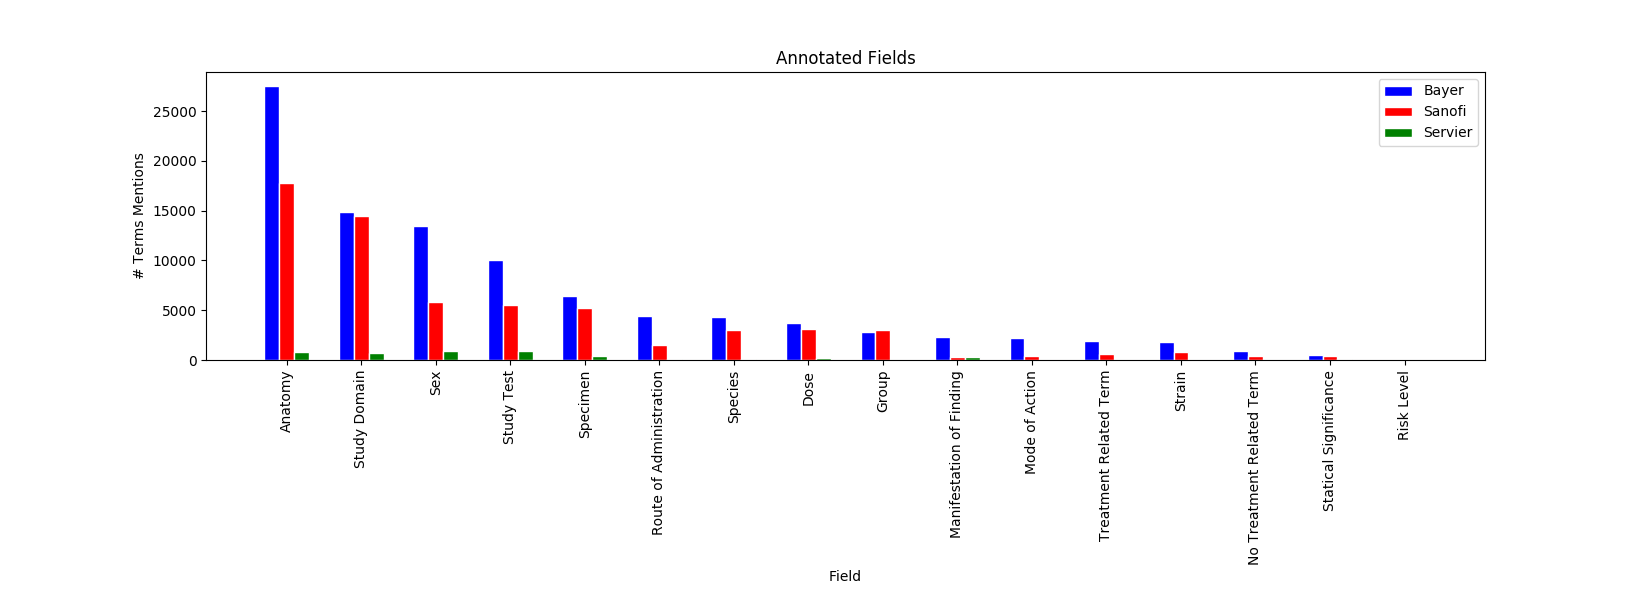
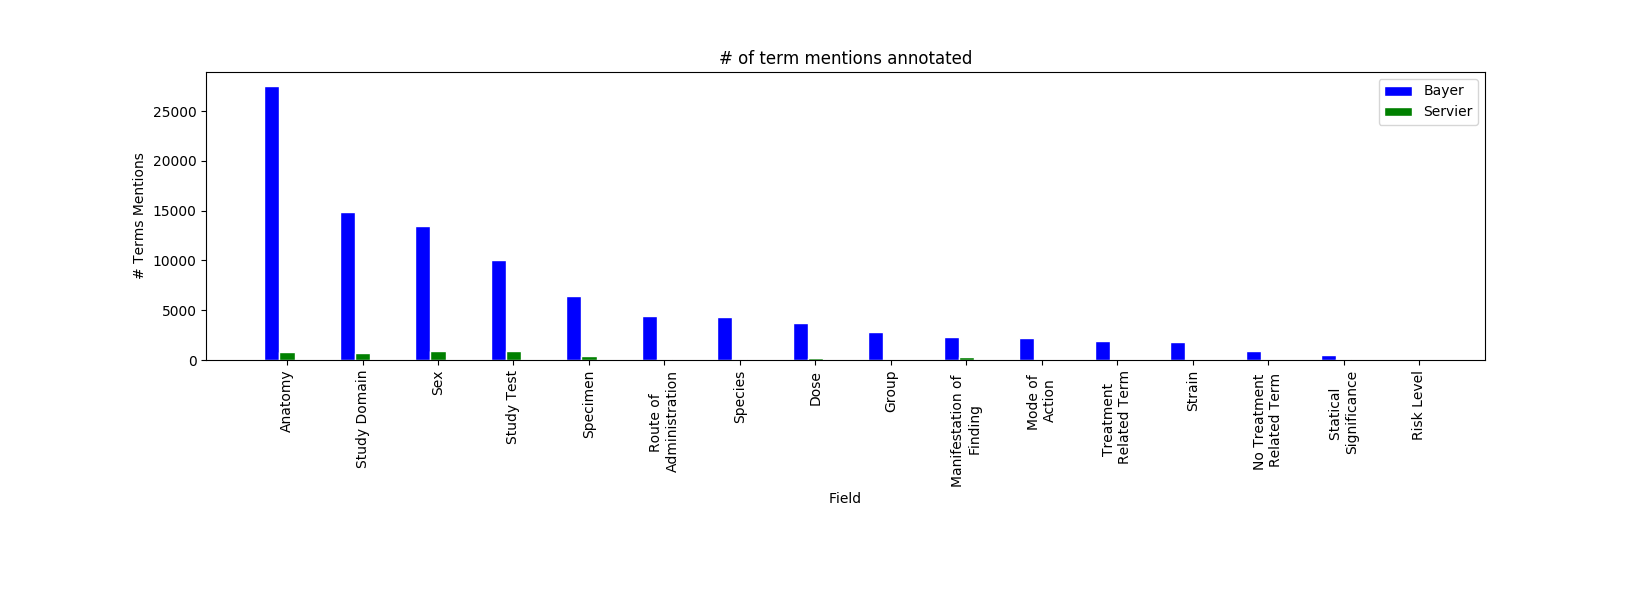
development comparison

diff --git a/plot_multiefpia_comparison.py b/plot_multiefpia_comparison.py
@@ -24,16 +24,23 @@ if __name__ == '__main__':
     import plot_multiefpia_comparison
     parameters = plot_multiefpia_comparison.ReadParameters(args)
     
+    
+    parameters['total_annotation_measurement'] = "bayer/total_annotation_measurement.dat,servier/total_annotation_measurement.dat"
+    efpias=['Bayer','Servier']
+    #['Bayer','Sanofi','Servier']
+    #['b','r','g']
+    colors = ['b','g']
+    
     total_annotation_measurement = parameters['total_annotation_measurement'].split(",")
     documents_annotation_measurement = parameters['documents_annotation_measurement'].split(",")
     if(len(total_annotation_measurement)!=len(documents_annotation_measurement)):
         logging.error("The numbers of total field and document files have to be the same.")
        
     #for path1,path2 in zip(total_annotation_measurement,documents_annotation_measurement):
-    #plot_multiefpia_comparation.plot_annotations_set_measurement(total_annotation_measurement, parameters['outputDir']+ 'all_set_annotations_percentage.png',['Bayer','Sanofi','Servier'],['b','r','g'],True)
-    plot_multiefpia_comparison.plot_annotations_set_measurement(total_annotation_measurement,parameters['outputDir']+ 'all_set_annotations_quantity.png',['Bayer','Sanofi','Servier'],['b','r','g'],False)
-    #plot_multiefpia_comparation.plot_annotations_study_domain(total_annotation_measurement,parameters['outputDir']+ 'study_domain_percentage.png',['Bayer','Sanofi','Servier'],['b','r','g'],True)
-    plot_multiefpia_comparison.plot_annotations_study_domain(total_annotation_measurement,parameters['outputDir']+ 'study_domain_quantity.png',['Bayer','Sanofi','Servier'],['b','r','g'],False)   
+    plot_multiefpia_comparison.plot_annotations_set_measurement(total_annotation_measurement, parameters['outputDir']+ 'all_set_annotations_percentage.png',efpias,colors,True)
+    plot_multiefpia_comparison.plot_annotations_set_measurement(total_annotation_measurement,parameters['outputDir']+ 'all_set_annotations_quantity.png',efpias,colors,False)
+    plot_multiefpia_comparison.plot_annotations_study_domain(total_annotation_measurement,parameters['outputDir']+ 'study_domain_percentage.png',efpias,colors,True)
+    plot_multiefpia_comparison.plot_annotations_study_domain(total_annotation_measurement,parameters['outputDir']+ 'study_domain_quantity.png',efpias,colors,False)   
 def ReadParameters(args):
     """Read the parameters of the module, see --help"""
     missing_parameter=False
@@ -82,8 +89,8 @@ def plot_annotations_set_measurement(annotation_measurement_paths, output,efpias
             tokens = float(tokens_df.get_value(tokens_df.index[0],2))
             df_to_plot['value'] = df_to_plot['value']/tokens
         #Get Specific fields for plot
-        xdata=['Anatomy','Study Domain', 'Sex', 'Study Test', 'Specimen', 'Route of Administration', 'Species', 'Dose', 'Group', 'Manifestation of Finding', 'Mode of Action',  \
-               'Treatment Related Term', 'Strain','No Treatment Related Term',  'Statical Significance', 'Risk Level' ]
+        xdata=['Anatomy','Study Domain', 'Sex', 'Study Test', 'Specimen', 'Route of \nAdministration', 'Species', 'Dose', 'Group', 'Manifestation of \nFinding', 'Mode of \nAction',  \
+               'Treatment \nRelated Term', 'Strain','No Treatment \nRelated Term',  'Statical \nSignificance', 'Risk Level' ]
         values.append(getFieldValue(df_to_plot, 'ANATOMY'))
         values.append(getFieldValue(df_to_plot, 'STUDY_DOMAIN'))
         values.append(getFieldValue(df_to_plot, 'SEX'))
@@ -119,8 +126,13 @@ def plot_annotations_set_measurement(annotation_measurement_paths, output,efpias
     plt.xticks([r + barWidth for r in range(len(values))], xdata, rotation=90 )
     plt.legend()
     plt.xlabel("Field")
-    plt.ylabel("# Terms Mentions")
-    plt.title('Annotated Fields')
+    if(percentage==True):
+        plt.ylabel("Annotations % over tokens")
+        plt.title('%  of term mentions annotated')
+    else:
+        plt.ylabel("# Terms Mentions")
+        plt.title('# of term mentions annotated')
+    
     plt.gcf().subplots_adjust(bottom=0.40)
     plt.gcf().set_size_inches(16.5, 6.0)
     plt.savefig(output)
@@ -138,7 +150,7 @@ def getFieldValue(df, fieldName):
 
 def plot_annotations_study_domain(annotation_measurement_paths, output, efpias,colors, percentage=True):
     list_to_plot = []
-    xdata=['Clinical','Microscopic', 'Death Diagnosis', 'Food and Water Consumption', 'Fetal Pathology', 'Body Weight', 'Body Weight Gain', 'Organ Measurement', 'Cardiovascular', 'Behavioral','Macroscopic', 'ECG',  \
+    xdata=['Clinical','Microscopic', 'Death \nDiagnosis', 'Food and Water \nConsumption', 'Fetal Pathology', 'Body Weight', 'Body Weight \nGain', 'Organ \nMeasurement', 'Cardiovascular', 'Behavioral','Macroscopic', 'ECG',  \
                'Respiratory', 'Pharmacokinetics','Laboratory']
     for path1,efpia,c in zip(annotation_measurement_paths,efpias,colors):
         values=[]
@@ -181,10 +193,16 @@ def plot_annotations_study_domain(annotation_measurement_paths, output, efpias,c
     
     plt.xticks([r + barWidth for r in range(len(values))], xdata, rotation=90 )
     plt.legend()
-    plt.title('Term mentions by Study Domain')
     plt.xlabel("Study Domain")
     plt.xticks(rotation=90)
-    plt.ylabel("# Terms Mentions")
+    if(percentage==True):
+        plt.ylabel("Annotations % over tokens")
+        plt.title('%  of term mentions annotated')
+    else:
+        plt.ylabel("# Terms Mentions")
+        plt.title('# of term mentions annotated')
+    
+    
     plt.gcf().subplots_adjust(bottom=0.40)
     plt.gcf().set_size_inches(16.5, 6.0)
     plt.savefig(output)
